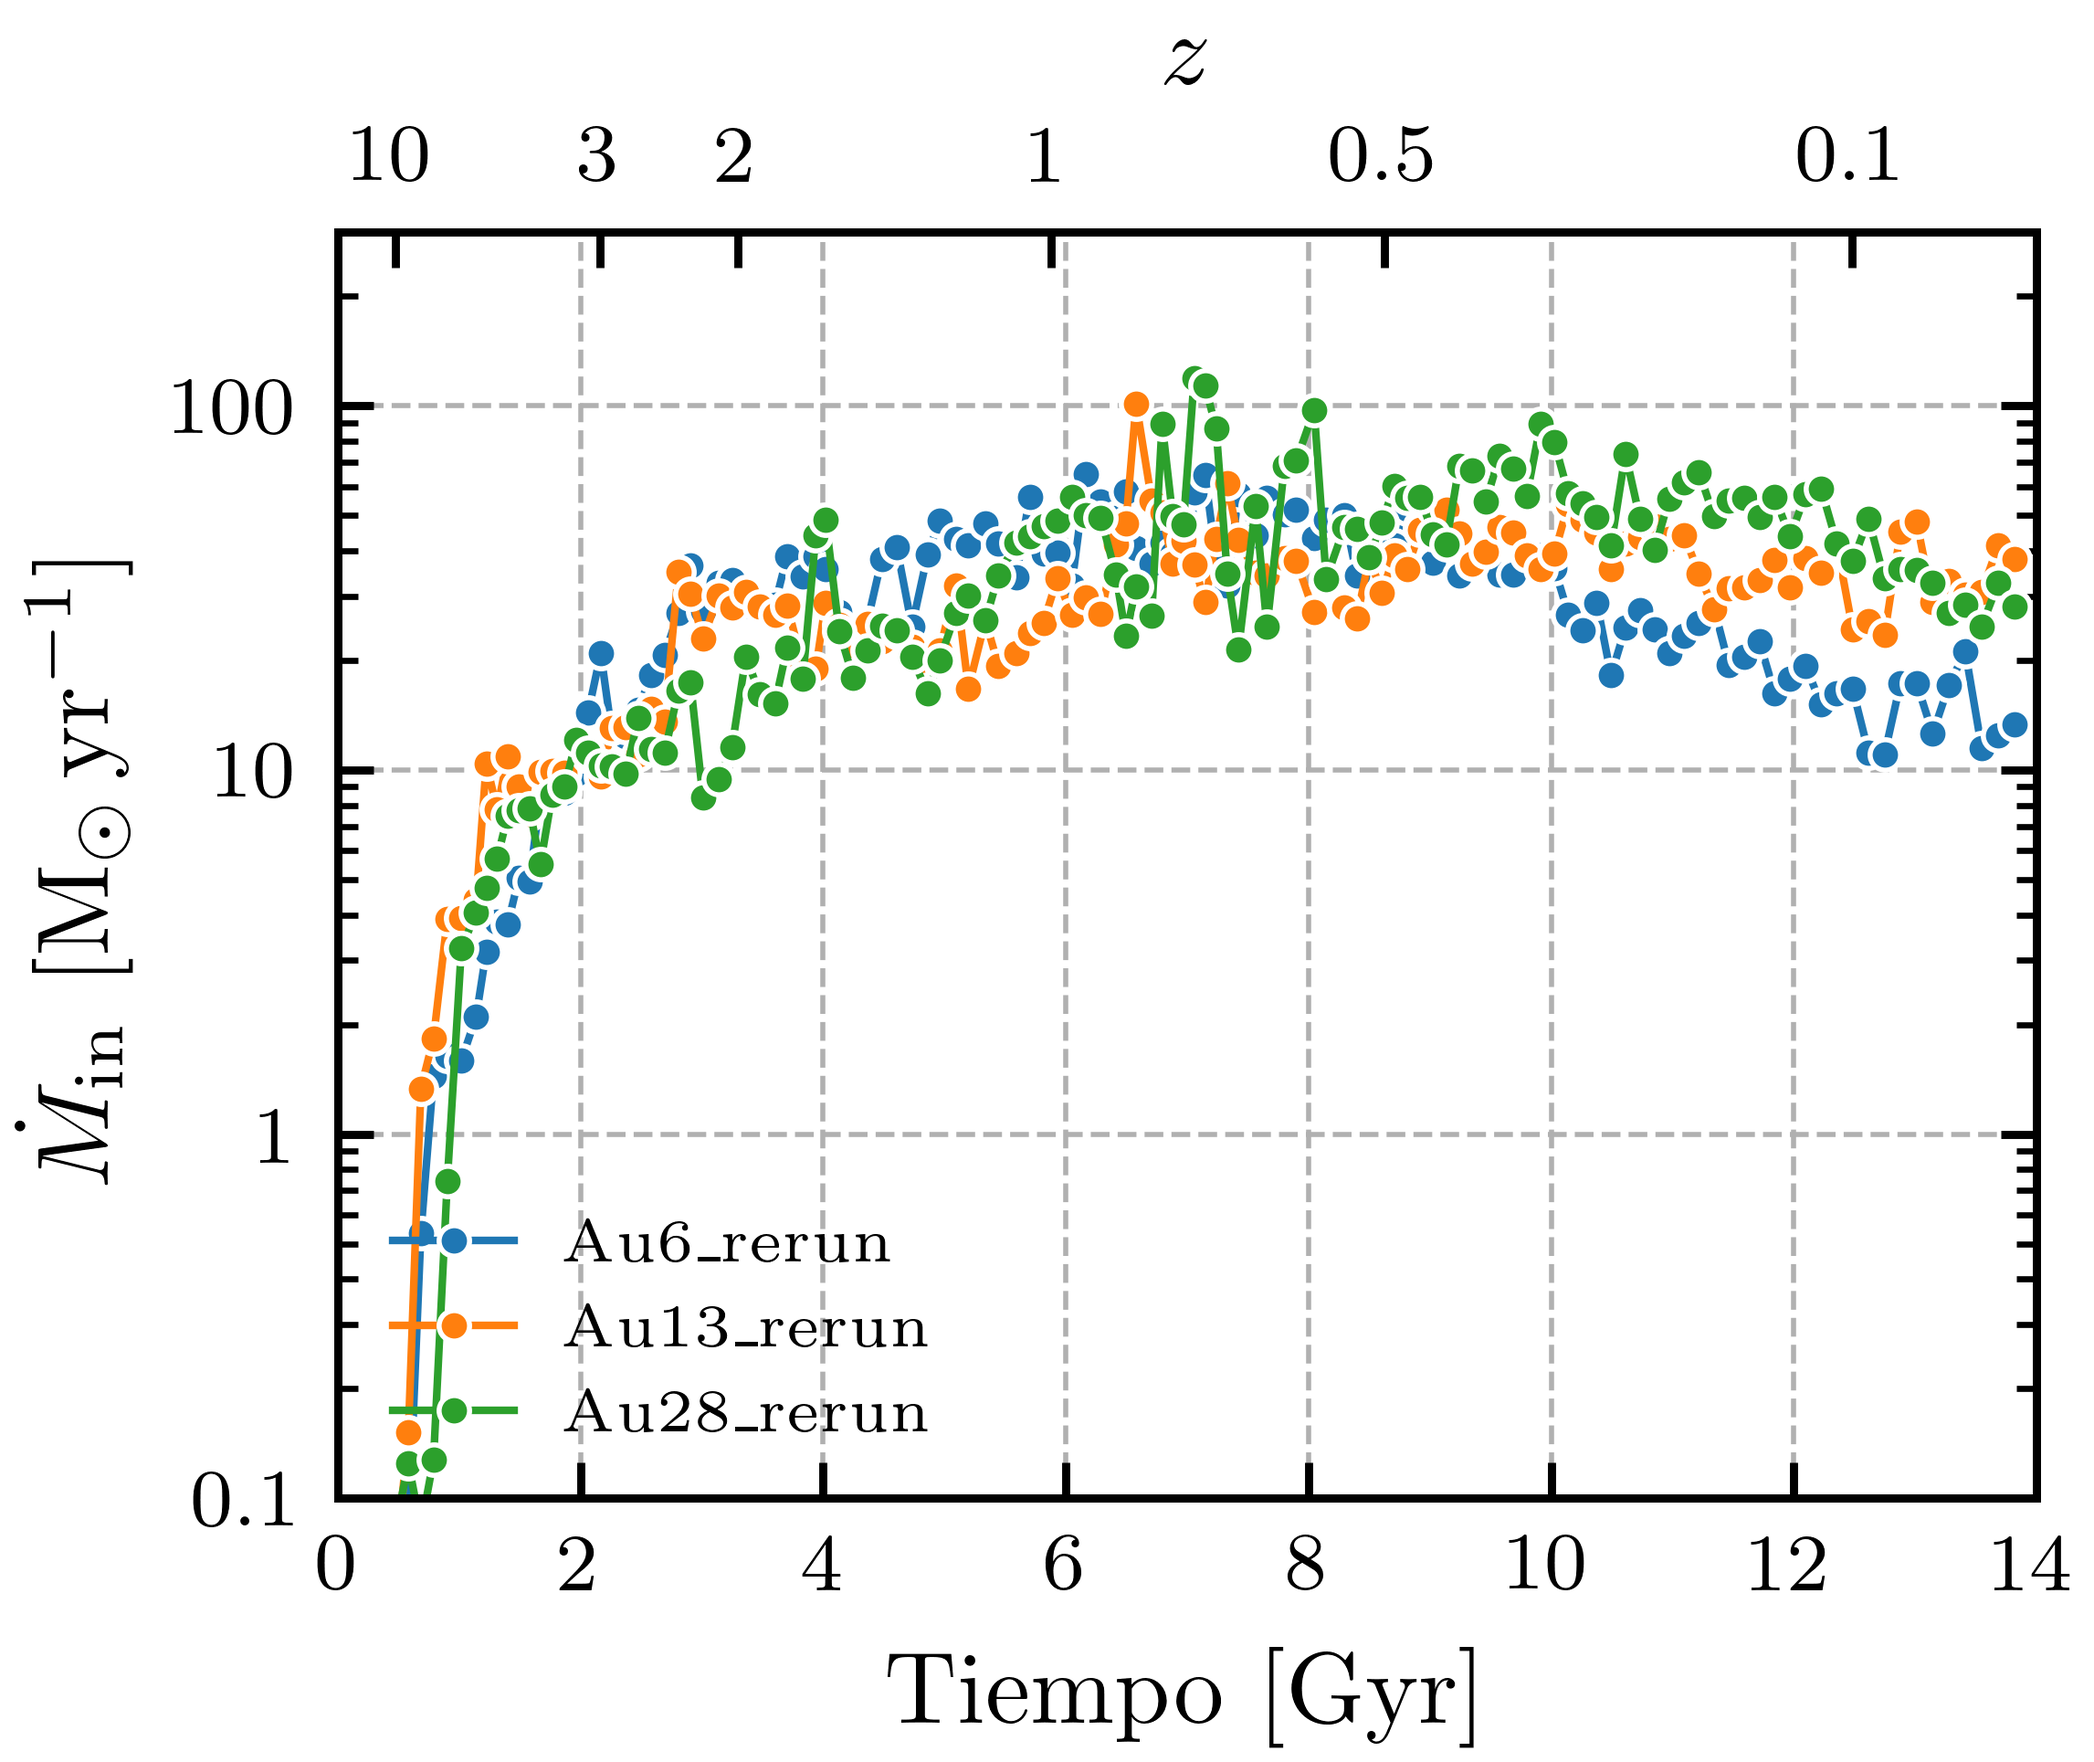
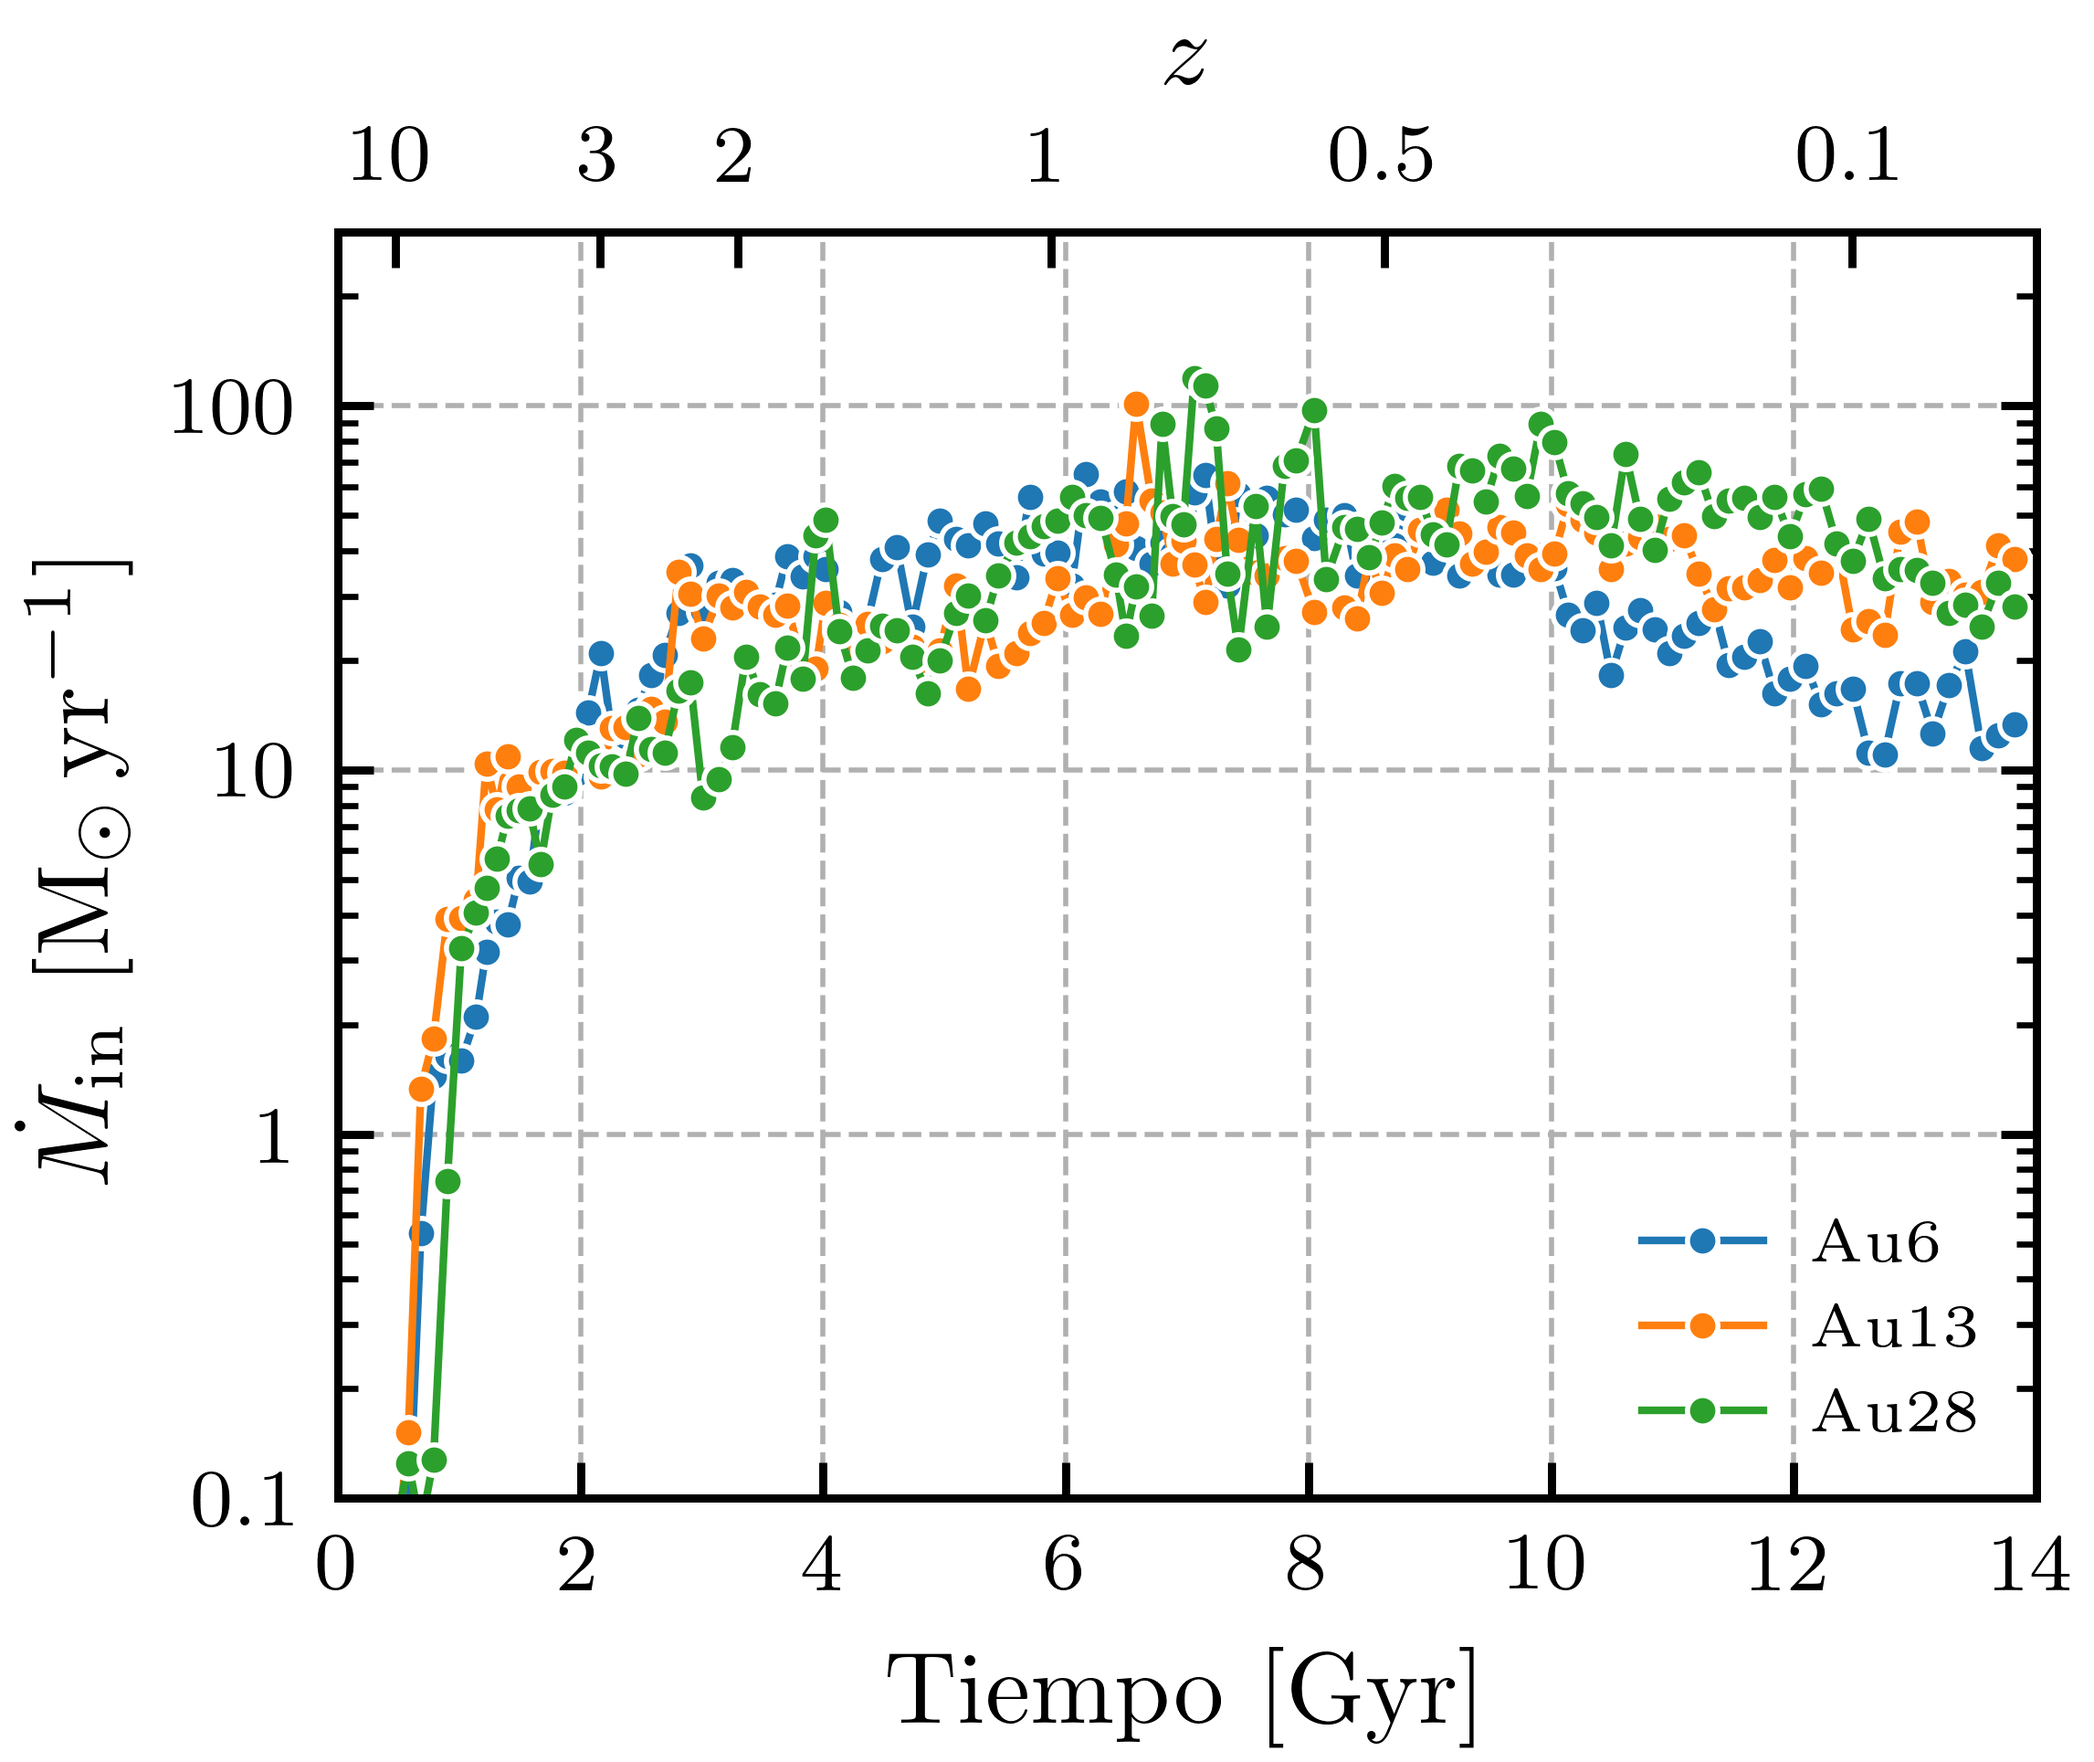
Fix labels.

diff --git a/source/main.py b/source/main.py
@@ -336,10 +336,11 @@ class Analysis:
             is_finite = np.isfinite(self.dfs[galaxy]['InflowRate'])
             ax.plot(self.dfs[galaxy]['Time'][is_finite],
                     self.dfs[galaxy]['InflowRate'][is_finite],
-                    'o-', lw=0.75, ms=3, mec='White', mew=0.5, label=galaxy)
+                    'o-', lw=0.75, ms=3, mec='White', mew=0.5,
+                    label=galaxy.split('_')[0])
 
         self.settings.add_redshift(ax)
-        ax.legend(loc='lower left', framealpha=0, fontsize=6)
+        ax.legend(loc='lower right', framealpha=0, fontsize=6)
         plt.savefig('../images/inflow_rate.png')
         plt.close(fig)
 
@@ -376,10 +377,11 @@ class Analysis:
             is_finite = np.isfinite(self.dfs[galaxy]['InflowRate'])
             ax.plot(self.dfs[galaxy]['Time'][is_finite],
                     self.dfs[galaxy]['OutflowRate'][is_finite],
-                    'o-', lw=0.75, ms=3, mec='White', mew=0.5, label=galaxy)
+                    'o-', lw=0.75, ms=3, mec='White', mew=0.5,
+                    label=galaxy.split('_')[0])
 
         self.settings.add_redshift(ax)
-        ax.legend(loc='lower left', framealpha=0, fontsize=6)
+        ax.legend(loc='lower right', framealpha=0, fontsize=6)
         plt.savefig('../images/outflow_rate.png')
         plt.close(fig)
 
@@ -392,7 +394,7 @@ if __name__ == '__main__':
     analysis.settings.config_plots()
 
     # Make plots
-    analysis.plot_virial_mass_dist()
+    # analysis.plot_virial_mass_dist()
     # analysis.plot_disc_to_total_dist()
     # analysis.plot_disc_to_total_evolution(galaxies=['Au4', 'Au18', 'Au29'])
     # analysis.plot_alignment_dist()
